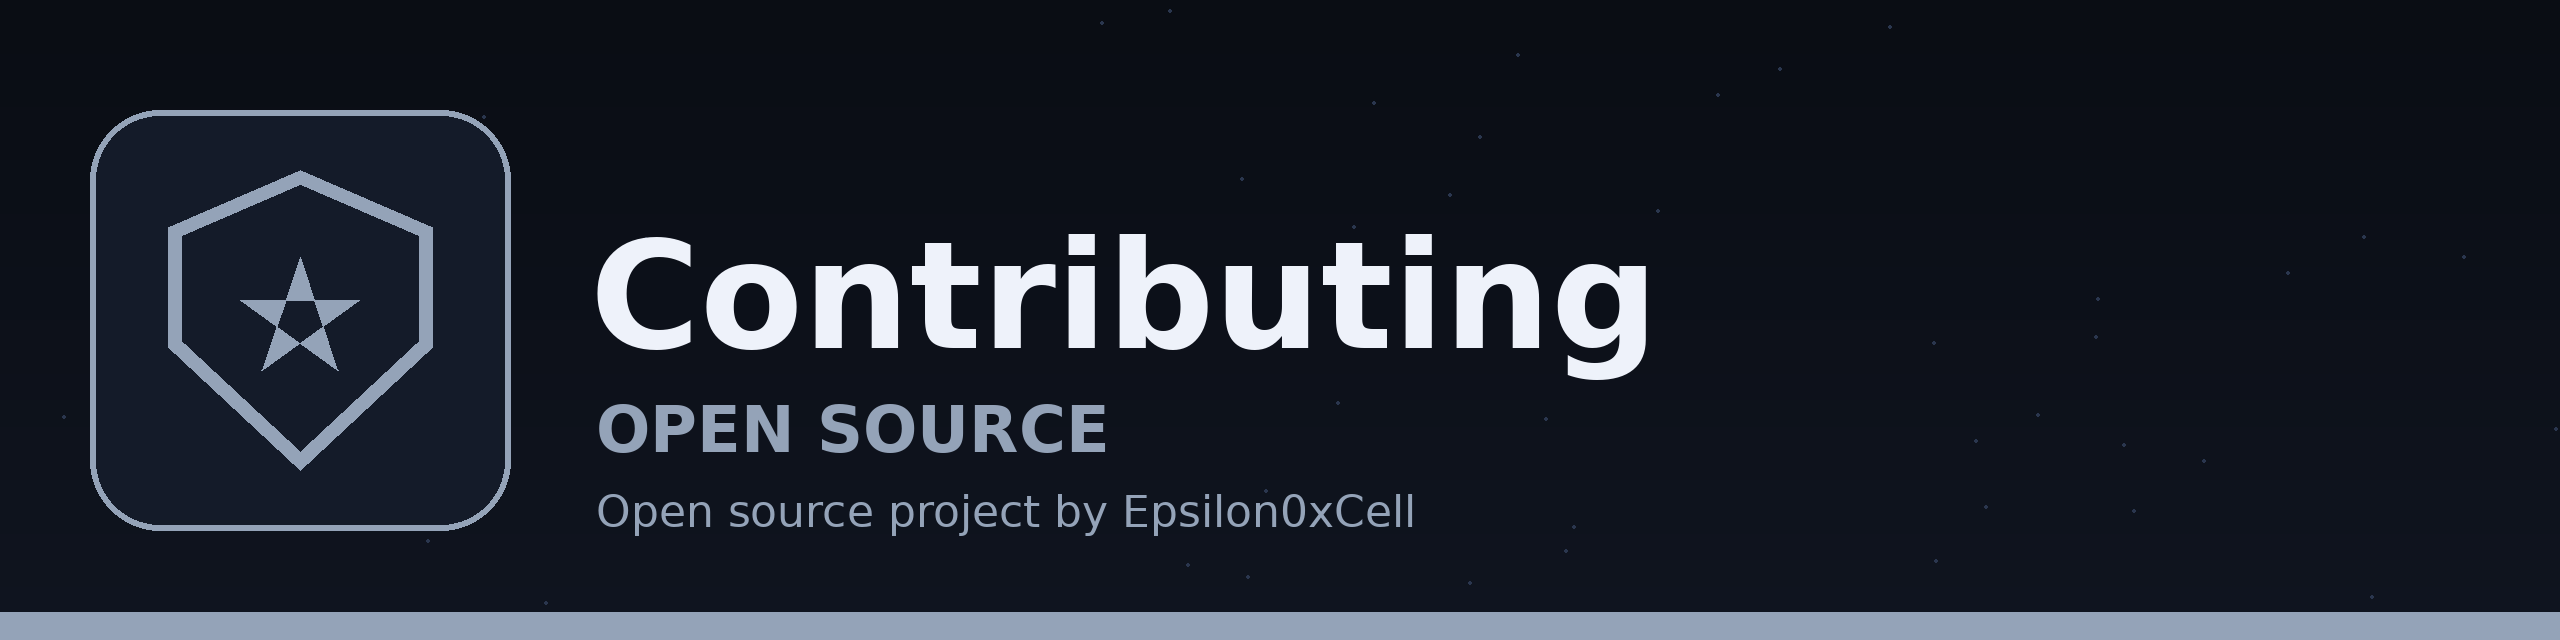
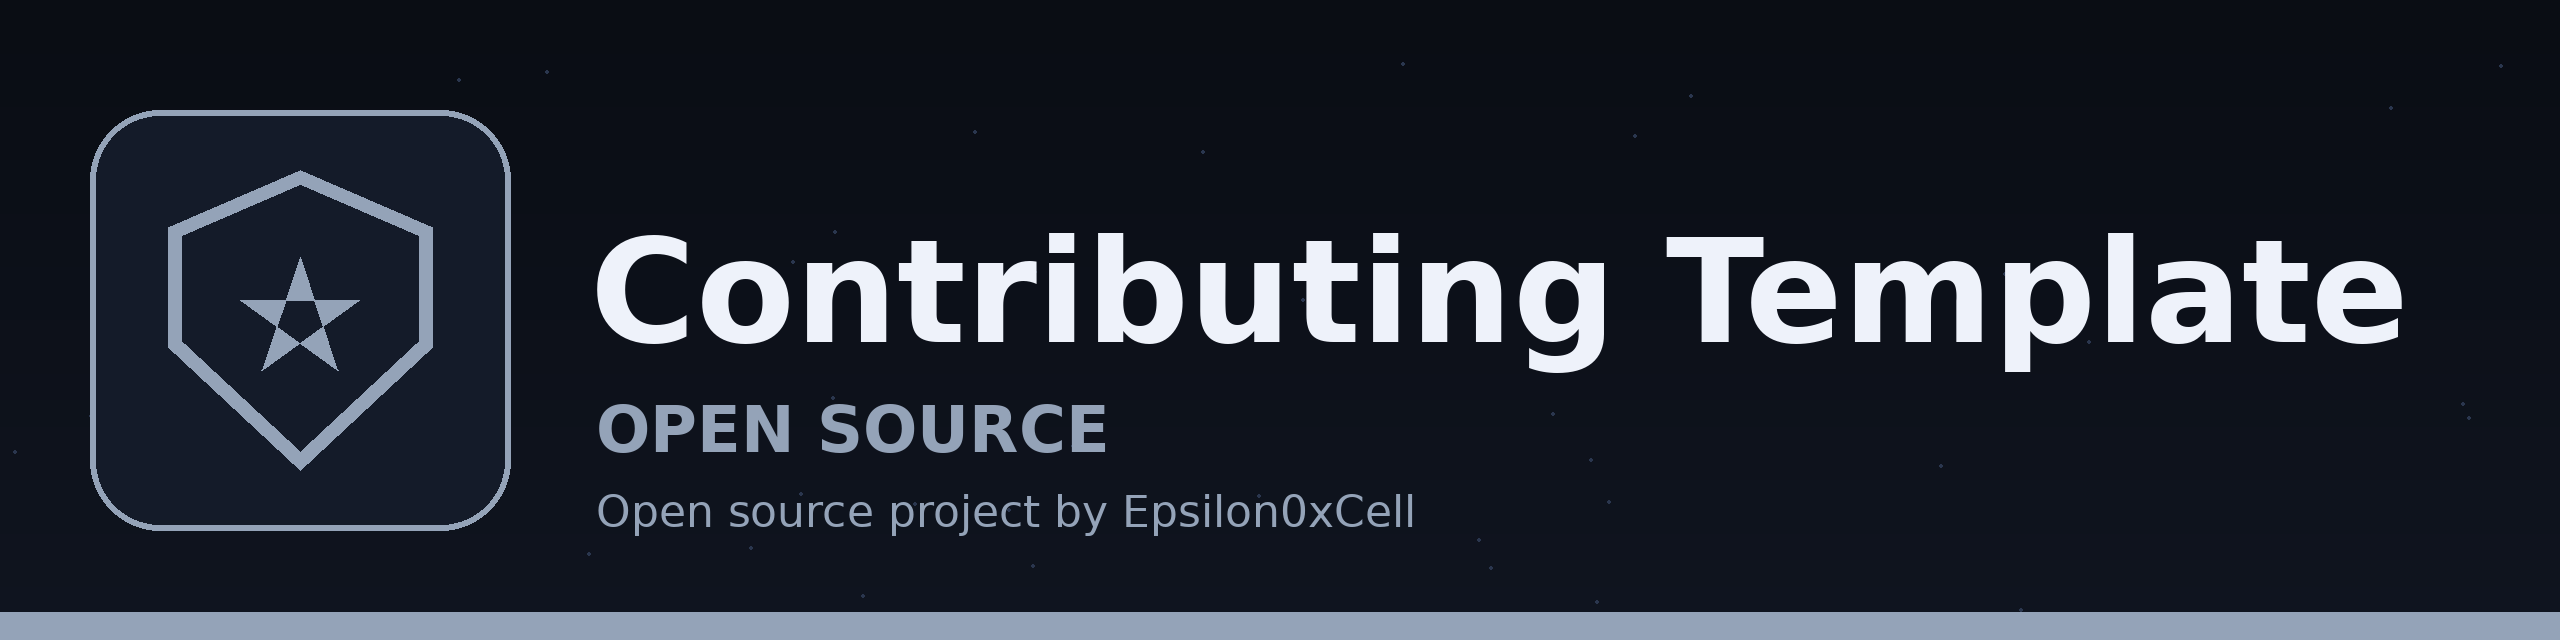
Update name to Contributing-Template: README title and branding

Changed region(s): [[0.25, 0.3438, 0.9375, 0.5938], [0.25, 0.375, 0.2812, 0.4062]]

diff --git a/README.md b/README.md
@@ -1,6 +1,6 @@
 ![Banner](banner.png)
 
-# CONTRIBUTING
+# Contributing-Template
 My contributing.md file
 
 https://generator.contributing.md
